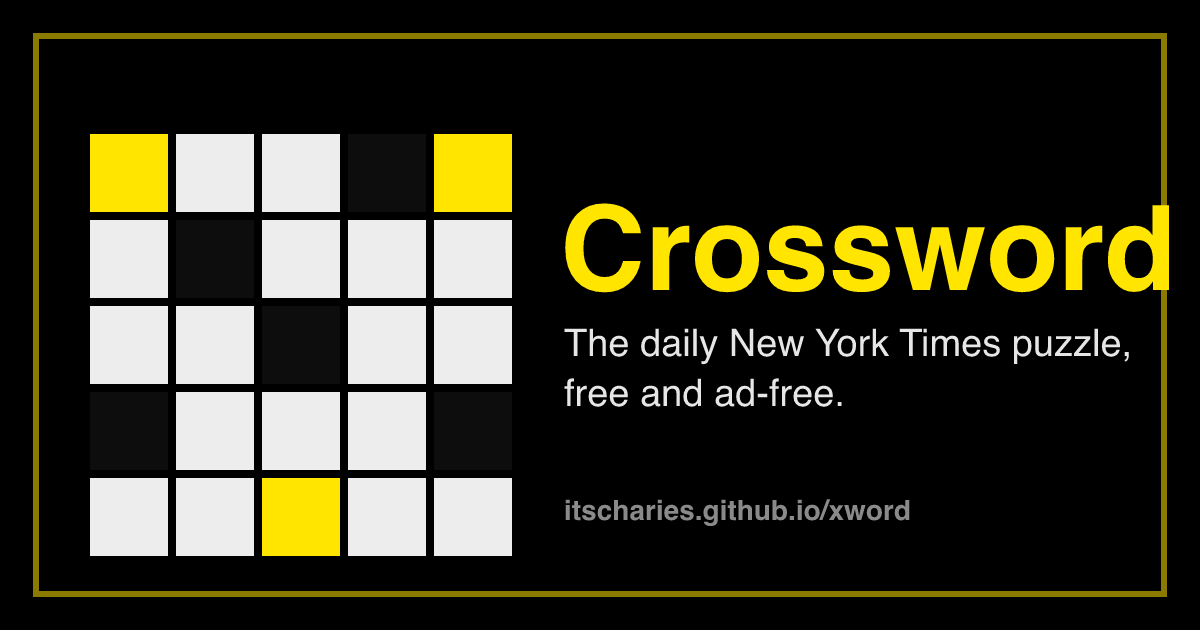
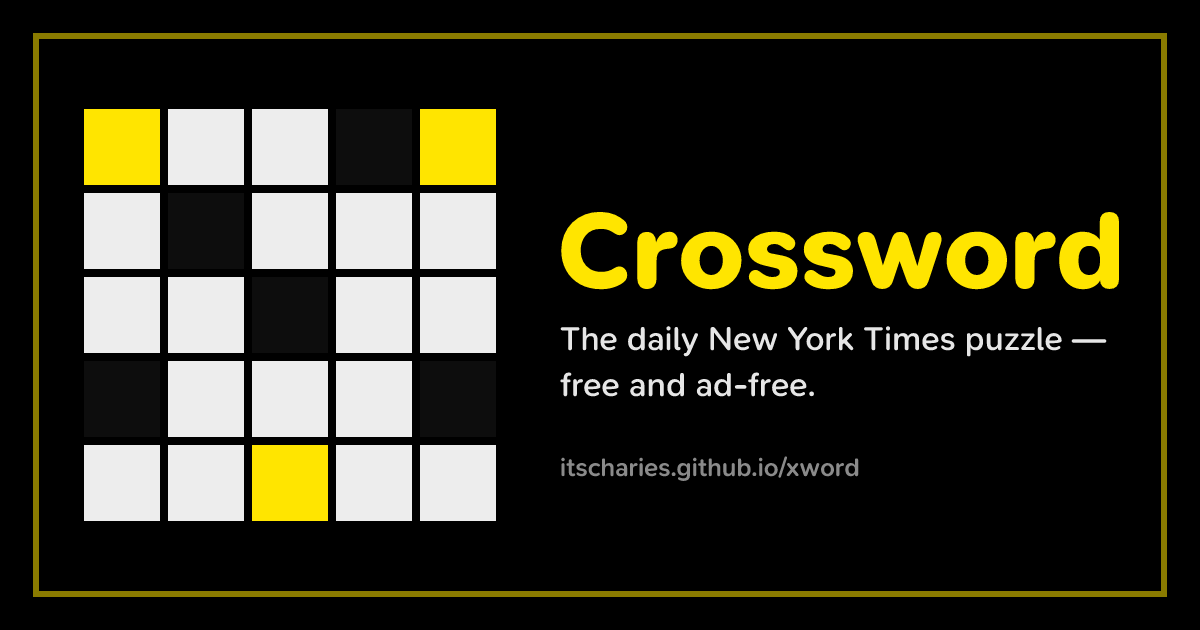
Regenerate OG image with embedded SN Pro font and centered layout
Download SN Pro weights at generation time and pass them to resvg so the
share image uses the real brand font; vertically center the grid + text.

diff --git a/scripts/make-og.ts b/scripts/make-og.ts
@@ -1,7 +1,9 @@
 // Generate public/og.png — the social-share preview image (1200x630).
-// Run: npx tsx scripts/make-og.ts
+// Downloads the SN Pro font so the text matches the site, then renders the
+// SVG to PNG. Run: npm run og
 import { Resvg } from "@resvg/resvg-js";
-import { writeFileSync } from "node:fs";
+import { mkdtempSync, writeFileSync } from "node:fs";
+import { tmpdir } from "node:os";
 import { dirname, join } from "node:path";
 import { fileURLToPath } from "node:url";
 
@@ -9,43 +11,71 @@ const __dirname = dirname(fileURLToPath(import.meta.url));
 
 const W = 1200;
 const H = 630;
-const size = 78;
-const gap = 8;
-const ox = 90;
-const oy = 134;
 
+/** Fetch the SN Pro weights as .ttf files (an old UA makes Google serve ttf,
+ * which resvg can read — unlike woff2). Returns local file paths. */
+async function loadSnPro(): Promise<string[]> {
+  const css = await fetch(
+    "https://fonts.googleapis.com/css2?family=SN+Pro:wght@500;600;800&display=swap",
+    { headers: { "User-Agent": "Mozilla/5.0" } },
+  ).then((r) => r.text());
+  const urls = [...css.matchAll(/url\((https:\/\/[^)]+\.ttf)\)/g)].map((m) => m[1]);
+  const dir = mkdtempSync(join(tmpdir(), "snpro-"));
+  const files: string[] = [];
+  for (let i = 0; i < urls.length; i++) {
+    const buf = Buffer.from(await fetch(urls[i]).then((r) => r.arrayBuffer()));
+    const p = join(dir, `snpro-${i}.ttf`);
+    writeFileSync(p, buf);
+    files.push(p);
+  }
+  return files;
+}
+
+// ---- 5x5 crossword motif, vertically centred -----------------------------
+const cell = 76;
+const gap = 8;
+const span = 5 * cell + 4 * gap; // 412
+const ox = 84;
+const oy = (H - span) / 2; // centred vertically
 const blocked = new Set(["1,1", "3,0", "0,3", "2,2", "4,3"]);
 const accent = new Set(["0,0", "4,0", "2,4"]);
 
 let cells = "";
 for (let r = 0; r < 5; r++) {
   for (let c = 0; c < 5; c++) {
-    const x = ox + c * (size + gap);
-    const y = oy + r * (size + gap);
+    const x = ox + c * (cell + gap);
+    const y = oy + r * (cell + gap);
     const key = `${c},${r}`;
     const fill = blocked.has(key) ? "#0d0d0d" : accent.has(key) ? "#ffe500" : "#ededed";
-    cells += `<rect x="${x}" y="${y}" width="${size}" height="${size}" fill="${fill}"/>`;
+    cells += `<rect x="${x}" y="${y}" width="${cell}" height="${cell}" fill="${fill}"/>`;
   }
 }
 
-const font = "Helvetica, Arial, sans-serif";
+// ---- text block, vertically centred to match the grid --------------------
+const tx = ox + span + 60; // 556
+const ff = "SN Pro";
+const text = `
+  <text x="${tx}" y="288" font-family="${ff}" font-size="112" font-weight="800" fill="#ffe500">Crossword</text>
+  <text x="${tx + 4}" y="350" font-family="${ff}" font-size="34" font-weight="500" fill="#e6e6e6">The daily New York Times puzzle —</text>
+  <text x="${tx + 4}" y="396" font-family="${ff}" font-size="34" font-weight="500" fill="#e6e6e6">free and ad-free.</text>
+  <text x="${tx + 4}" y="476" font-family="${ff}" font-size="26" font-weight="600" fill="#8a8a8a">itscharies.github.io/xword</text>
+`;
+
 const svg = `<svg xmlns="http://www.w3.org/2000/svg" width="${W}" height="${H}" viewBox="0 0 ${W} ${H}">
   <rect width="${W}" height="${H}" fill="#000000"/>
   <rect x="36" y="36" width="${W - 72}" height="${H - 72}" fill="none" stroke="#8a7b00" stroke-width="6"/>
   ${cells}
-  <text x="560" y="290" font-family="${font}" font-size="118" font-weight="800" fill="#ffe500">Crossword</text>
-  <text x="564" y="356" font-family="${font}" font-size="38" font-weight="500" fill="#e6e6e6">The daily New York Times puzzle,</text>
-  <text x="564" y="406" font-family="${font}" font-size="38" font-weight="500" fill="#e6e6e6">free and ad-free.</text>
-  <text x="564" y="520" font-family="${font}" font-size="28" font-weight="600" fill="#8a8a8a">itscharies.github.io/xword</text>
+  ${text}
 </svg>`;
 
+const fontFiles = await loadSnPro();
 const png = new Resvg(svg, {
   fitTo: { mode: "width", value: W },
-  font: { loadSystemFonts: true },
+  font: { loadSystemFonts: false, fontFiles, defaultFontFamily: "SN Pro" },
 })
   .render()
   .asPng();
 
 const out = join(__dirname, "..", "public", "og.png");
 writeFileSync(out, png);
-console.log(`Wrote ${out} (${png.length} bytes)`);
+console.log(`Wrote ${out} (${png.length} bytes) with ${fontFiles.length} font file(s)`);